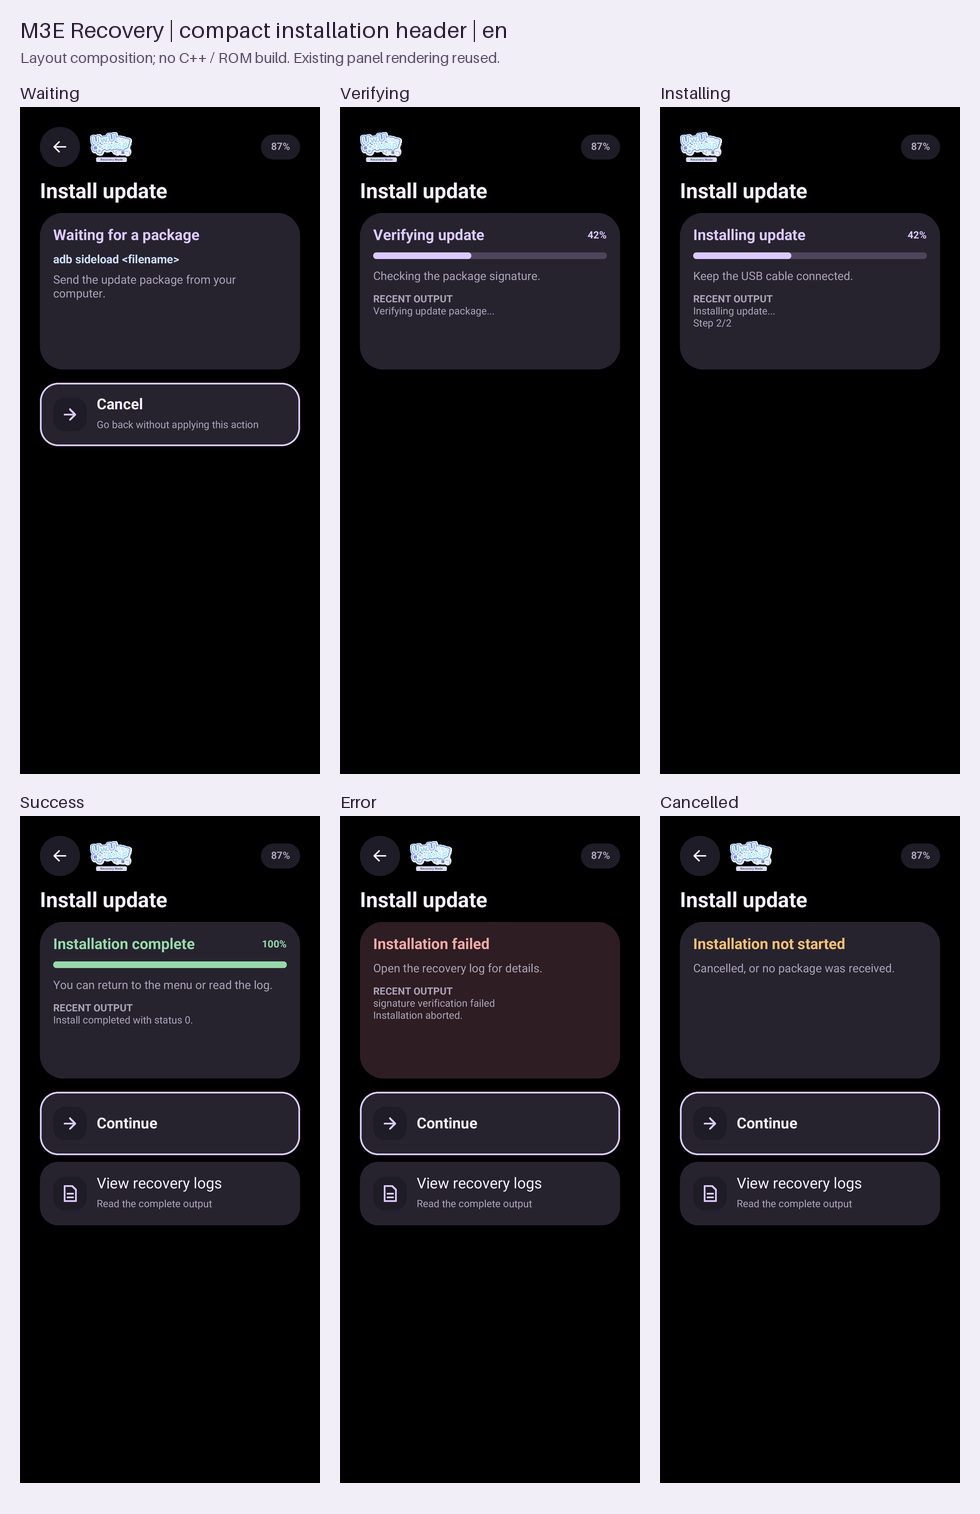
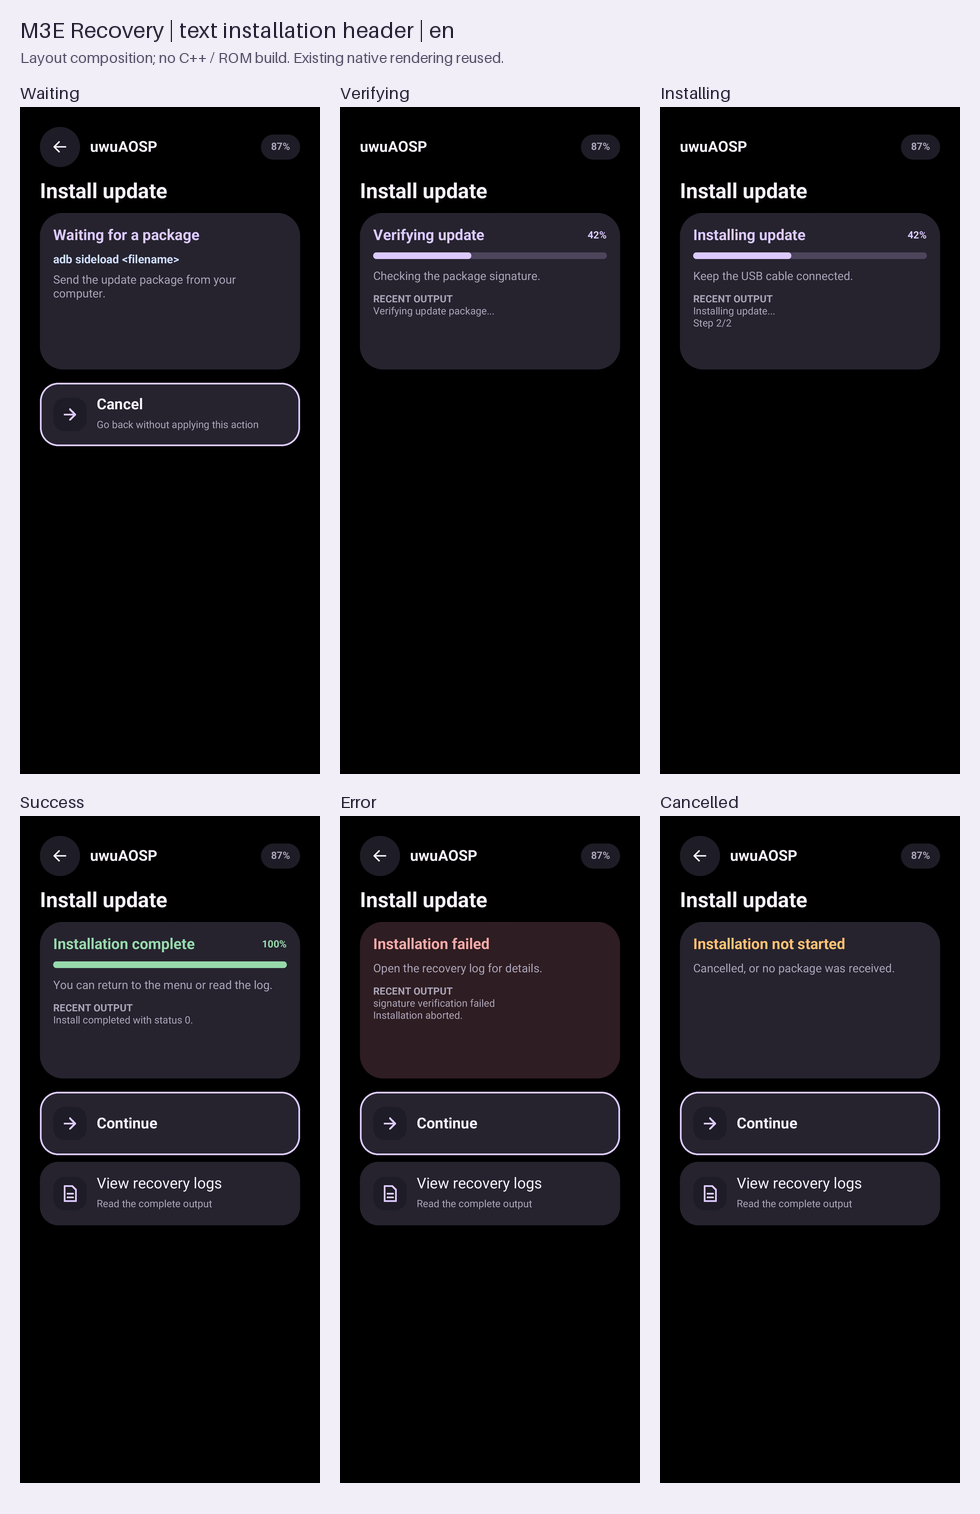
fix(recovery): restore text branding on installation pages

diff --git a/tools/m3e/test_install_ui.cpp b/tools/m3e/test_install_ui.cpp
@@ -58,26 +58,16 @@ constexpr InstallStage stages[]={InstallStage::WAITING,InstallStage::VERIFYING,
     InstallStage::INSTALLING,InstallStage::SUCCESS,InstallStage::ERROR,InstallStage::CANCELLED};
 const char* names[]={"waiting","verifying","installing","success","error","cancelled"};
 
-void Render(const std::string& out,int w,int h,bool zh,int index,bool has_logo,bool pixels=false) {
+void Render(const std::string& out,int w,int h,bool zh,int index,bool pixels=false) {
   SetScaleBasis(w,h);SetLanguage(zh?Language::Chinese:Language::English);
   PixelCanvas c(w,h,pixels);Metrics m(w);auto p=Palette::ForMode(false);p.background={0,0,0};
   auto stage=stages[index];int rows=stage==InstallStage::WAITING?1:index>=3?2:0;
   int top=Dp(w,24),bottom=h-top;
-  int logo_height=has_logo?(pixels?120:Dp(w,36)):0;
-  int logo_width=pixels?169:static_cast<int>(std::lround(logo_height*653.0/464.0));
-  auto logo=InstallHeaderLogo(m,top,bottom,rows,has_logo?logo_width:0,logo_height);
-  int y=DrawInstallHeader(c,m,top,bottom,rows,false,{},p,logo);
+  int y=DrawInstallHeader(c,m,top,bottom,rows,false,{},p);
   auto layout=InstallationLayout(m,y,bottom,rows);
   assert(layout.panel.y>=y && layout.panel.y+layout.panel.h<=bottom);
   assert(layout.panel.y==y); // No illustration or empty illustration gap above the panel.
-  if(logo.w) {
-    auto back=BackBounds(m,top);
-    assert(logo.y>=top && logo.y+logo.h<=top+back.h);
-    assert(logo.x+logo.w<=w-m.inset-Dp(w,90));
-    if(rows) assert(logo.x>=back.x+back.w+Dp(w,12));
-    assert(!c.Has("uwuAOSP")); // Artwork replaces, rather than duplicates, the brand text.
-    c.Blit(out+"/logo.ppm",logo);
-  } else if(!CompactInstallHeader(m,top,bottom,rows)) {
+  if(!CompactInstallHeader(m,top,bottom,rows)) {
     assert(c.Has("uwuAOSP"));
   }
   c.runs.clear();
@@ -111,7 +101,6 @@ void Render(const std::string& out,int w,int h,bool zh,int index,bool has_logo,b
 }
 void CheckProgress() {
   SetScaleBasis(360,800);SetLanguage(Language::English);Metrics m(360);Palette p;
-  assert(InstallHeaderLogo(m,24,776,2,600,426).w==0); // Oversized custom resource fallback.
   for(double value:{-1.0,0.0,0.42,1.0,5.0,std::numeric_limits<double>::quiet_NaN()}) {
     PixelCanvas c(360,800);
     DrawInstallPanel(c,m,{24,24,312,188},InstallStage::INSTALLING,value,true,false,{},p);
@@ -136,8 +125,7 @@ int main(int argc,char** argv) {
 #endif
   for(auto [w,h]:std::vector<std::pair<int,int>>{{1220,2712},{720,1280},{360,640},
         {320,480},{1280,720},{320,240},{1600,2560}})
-    for(bool zh:{false,true})for(int i=0;i<6;++i)for(bool logo:{false,true})
-      Render(out,w,h,zh,i,logo);
-  for(bool zh:{false,true})for(int i=0;i<6;++i)Render(out,1220,2712,zh,i,true,true);
-  std::cout<<"PASS: six stages, two languages, seven screen sizes, missing logo, progress and touch geometry\n";
+    for(bool zh:{false,true})for(int i=0;i<6;++i)Render(out,w,h,zh,i);
+  for(bool zh:{false,true})for(int i=0;i<6;++i)Render(out,1220,2712,zh,i,true);
+  std::cout<<"PASS: six stages, two languages, seven screen sizes, text header, progress and touch geometry\n";
 }

diff --git a/tools/m3e/generate_status_logo.py b/tools/m3e/generate_status_logo.py
@@ -1,5 +1,5 @@
 #!/usr/bin/env python3
-"""Generate minui-compatible status/header logos from the pinned artwork."""
+"""Generate minui-compatible status logos from the pinned user-selected artwork."""
 
 import argparse
 import hashlib
@@ -29,18 +29,14 @@ def generate(out: Path) -> None:
     for density, scale in DENSITIES.items():
         width = round(spec["display_width_dp"] * scale)
         height = round(width * art.height / art.width)
-        header_height = round(spec["header_height_dp"] * scale)
-        header_width = round(header_height * art.width / art.height)
-        for name, size in (("uwu_recovery_status", (width, height)),
-                           ("uwu_recovery_header", (header_width, header_height))):
-            resized = art.resize(size, Image.Resampling.LANCZOS)
-            # minui display surfaces accept RGB; gr_blit does not alpha blend.
-            background = Image.new("RGBA", size, tuple(spec["background"]) + (255,))
-            rgb = Image.alpha_composite(background, resized).convert("RGB")
-            target = out / f"res-{density}" / "images" / (name + ".png")
-            target.parent.mkdir(parents=True, exist_ok=True)
-            rgb.save(target, optimize=True)
-            print(f"{target}: {size[0]}x{size[1]} RGB")
+        resized = art.resize((width, height), Image.Resampling.LANCZOS)
+        # minui display surfaces accept RGB, not RGBA; gr_blit does not alpha blend.
+        background = Image.new("RGBA", resized.size, tuple(spec["background"]) + (255,))
+        rgb = Image.alpha_composite(background, resized).convert("RGB")
+        target = out / f"res-{density}" / "images" / "uwu_recovery_status.png"
+        target.parent.mkdir(parents=True, exist_ok=True)
+        rgb.save(target, optimize=True)
+        print(f"{target}: {width}x{height} RGB")
 
 
 if __name__ == "__main__":

diff --git a/recovery_ui/include/recovery_ui/m3e_install.h b/recovery_ui/include/recovery_ui/m3e_install.h
@@ -13,22 +13,11 @@ inline int InstallButtonSpace(const Metrics& m,int rows) {
 inline bool CompactInstallHeader(const Metrics& m,int top,int bottom,int menu_rows) {
   return bottom-HeaderBottom(m,top,false)-InstallButtonSpace(m,menu_rows)<Dp(m.width,188);
 }
-inline Rect InstallHeaderLogo(const Metrics& m,int top,int bottom,int menu_rows,
-                              int logo_width,int logo_height) {
-  auto back=BackBounds(m,top);
-  int x=m.inset+(menu_rows>0?back.w+Dp(m.width,12):0);
-  // Keep the brand inside the app bar, clear of the battery and back hit target.
-  int available=m.width-m.inset-Dp(m.width,90)-x;
-  if(CompactInstallHeader(m,top,bottom,menu_rows) || logo_width<=0 || logo_height<=0 ||
-     logo_width>available || logo_height>back.h) return {0,0,0,0};
-  return {x,top+(back.h-logo_height)/2,logo_width,logo_height};
-}
 inline int DrawInstallHeader(Canvas& c,const Metrics& m,int top,int bottom,int menu_rows,
                              bool back_selected,const std::vector<std::string>& details,
-                             const Palette& p,Rect logo={0,0,0,0}) {
+                             const Palette& p) {
   if(!CompactInstallHeader(m,top,bottom,menu_rows)) {
-    return DrawHeader(c,m,top,menu_rows>0,back_selected,false,0,0,details,p,"Install update",false,
-                      logo.w==0);
+    return DrawHeader(c,m,top,menu_rows>0,back_selected,false,0,0,details,p,"Install update",false);
   }
   // Keep both result actions reachable on landscape/compact displays. The back hit area
   // stays identical to the regular header used by ScreenRecoveryUI::SelectMenu.

diff --git a/recovery_ui/screen_ui.cpp b/recovery_ui/screen_ui.cpp
@@ -1201,7 +1201,6 @@ bool ScreenRecoveryUI::Init(const std::string& locale) {
   recovery_m3e::SetLanguage(recovery_m3e::LanguageForLocale(locale));
 
   status_logo_ = LoadBitmap("uwu_recovery_status");
-  install_header_logo_ = LoadBitmap("uwu_recovery_header");
   if (!status_logo_) {
     // Preserve the upstream graphics when a device supplies its own resource set.
     error_icon_ = LoadBitmap("icon_error");
@@ -1362,14 +1361,9 @@ void ScreenRecoveryUI::DrawInstallPageLocked() {
   int top = std::max(margin_height_, recovery_m3e::Dp(ScreenWidth(), 24));
   int bottom = ScreenHeight() - top;
   int rows = menu_ ? std::min<size_t>(2, menu_->ItemsCount()) : 0;
-  auto logo = recovery_m3e::InstallHeaderLogo(m, top, bottom, rows,
-      gr_get_width(install_header_logo_.get()), gr_get_height(install_header_logo_.get()));
   int y = recovery_m3e::DrawInstallHeader(canvas, m, top, bottom, rows,
-      menu_ && menu_->selection() == -1, title_lines_, palette, logo);
+      menu_ && menu_->selection() == -1, title_lines_, palette);
   auto layout = recovery_m3e::InstallationLayout(m, y, bottom, rows);
-  if (logo.w > 0) {
-    DrawSurface(install_header_logo_.get(), 0, 0, logo.w, logo.h, logo.x, logo.y);
-  }
   double fraction = progressScopeStart + progress * progressScopeSize;
   recovery_m3e::DrawInstallPanel(canvas, m, layout.panel, m3e_install_stage_, fraction,
       progressBarType == DETERMINATE && progressScopeSize > 0, m3e_security_update_,

diff --git a/recovery_ui/include/recovery_ui/m3e.h b/recovery_ui/include/recovery_ui/m3e.h
@@ -266,7 +266,7 @@ inline void Chip(Canvas& c,const Metrics& m,int x,int y,const std::string& label
 }
 inline int DrawHeader(Canvas& c,const Metrics& m,int top,bool back,bool back_selected,bool fastboot,
                       int,int,const std::vector<std::string>& details,const Palette& p,
-                      const std::string& page="Recovery",bool dashboard=false,bool draw_brand=true) {
+                      const std::string& page="Recovery",bool dashboard=false) {
   auto b=BackBounds(m,top);
   int brand_x=m.inset;
   if(back) {
@@ -274,7 +274,7 @@ inline int DrawHeader(Canvas& c,const Metrics& m,int top,bool back,bool back_sel
     DrawIcon(c,Inset(b,Dp(m.width,14)),Icon::Back,p.text);
     brand_x+=b.w+Dp(m.width,12);
   }
-  if(draw_brand) c.Text(brand_x,top+Dp(m.width,13),"uwuAOSP",Font::Menu,p.text,true);
+  c.Text(brand_x,top+Dp(m.width,13),"uwuAOSP",Font::Menu,p.text,true);
   int y=top+b.h+Dp(m.width,14);
   Font title=dashboard?Font::Title:Font::Heading;
   if(!fastboot && page=="Recovery") {

diff --git a/tools/m3e/test_install_ui.py b/tools/m3e/test_install_ui.py
@@ -127,8 +127,6 @@ def run(cxx, out, ndk_clang=None):
     with tempfile.TemporaryDirectory(prefix='m3e-install-') as temp:
         build = Path(temp)
         (build / 'install_routing.inc').write_text(routing_test(), encoding='utf-8')
-        with Image.open(ROOT / 'res-xxhdpi/images/uwu_recovery_header.png') as logo:
-            logo.save(build / 'logo.ppm')
         exe = build / ('test.exe' if os.name == 'nt' else 'test')
         subprocess.run([cxx, '-std=c++17', '-O1', '-Wall', '-Wextra', '-Werror',
                         '-DM3E_INSTALL_ROUTING_TEST', '-I' + str(ROOT / 'recovery_ui/include'),

diff --git a/recovery_ui/include/recovery_ui/screen_ui.h b/recovery_ui/include/recovery_ui/screen_ui.h
@@ -529,7 +529,6 @@ class ScreenRecoveryUI : public RecoveryUI, public DrawInterface {
   // intro_frames_ / loop_frames_ (indexed by current_frame_) or error_icon_.
   Icon current_icon_;
   std::unique_ptr<GRSurface> status_logo_;
-  std::unique_ptr<GRSurface> install_header_logo_;
   std::unique_ptr<GRSurface> error_icon_;
   std::vector<std::unique_ptr<GRSurface>> intro_frames_;
   std::vector<std::unique_ptr<GRSurface>> loop_frames_;

diff --git a/README_M3E.md b/README_M3E.md
@@ -31,7 +31,7 @@ OTA 安装、签名校验、擦除确认等逻辑沿用上游实现。
 成功、失败和未收到包分别使用绿色、红色和橙色状态，结果页可继续返回菜单或查看完整恢复日志。
 安装页面支持简体中文 / English；日志原文保留。
 
-安装页 Logo 缩小后放在顶部 `uwuAOSP` 品牌位置，和返回键、电量处于同一栏。
+安装页顶部使用 `uwuAOSP` 文字，和返回键、电量处于同一栏。
 安装标题下方直接显示状态卡片，不再为大插画预留空间。
 
 ![安装页头布局预览（合成示意，非手机截图）](tools/m3e/preview/install-header-flow-zh.png)
@@ -47,7 +47,7 @@ OTA 安装、签名校验、擦除确认等逻辑沿用上游实现。
 菜单安装和 `adb reboot sideload` 均可显示结果；`sideload-auto-reboot` 保持上游自动重启语义。
 文件安装复用同一校验/安装页面，能否读取内部存储和支持何种 ZIP 仍由现有挂载、解密及安装后端决定。
 小屏及横屏空间不足时使用紧凑文字页头，优先保证状态文案和按钮可见。
-缺少页头 Logo 或自定义图片超出栏位时回退到品牌文字，不裁切图片或挤占电量区域。
+安装页不加载品牌图片，顶部和状态卡片之间没有插画占位。
 
 页面由 `recovery_ui/include/recovery_ui/m3e_install.h` 绘制，阶段接口在 `install_status.h`；
 `install/adb_install.cpp`、`install/install.cpp` 和 `recovery.cpp` 负责更新阶段与展示结果。
@@ -61,7 +61,7 @@ python3 tools/m3e/test_install_ui.py --out /tmp/m3e-install-preview
 ```
 
 测试直接使用共享原生绘制代码，并提取实际页面路由、阶段更新和结果菜单方法进行主机检查，
-覆盖六种状态、两种语言、七种屏幕尺寸、缺失插画、进度边界、按钮区域、确认菜单优先级和查看日志返回。
+覆盖六种状态、两种语言、七种屏幕尺寸、文字页头、进度边界、按钮区域、确认菜单优先级和查看日志返回。
 预览进度、日志与电量是测试样例。
 
 ## 状态页图标
@@ -72,8 +72,7 @@ python3 tools/m3e/test_install_ui.py --out /tmp/m3e-install-preview
 ![状态页预览（主机资源渲染，非手机截图）](tools/m3e/preview/status-preview.png)
 
 原图、来源与 SHA-256 保存在 `tools/m3e/assets/`。生成器仅去除外围透明留白、
-按原比例生成 200dp 宽的旧状态页资源和 40dp 高的安装页头资源（均有五档密度），
-并合成到状态页原有黑色背景；minui 的
+按原比例生成 200dp 宽的五档旧状态页资源，并合成到状态页原有黑色背景；minui 的
 display surface 不接受 RGBA，因此提交的显示资源使用 8-bit RGB PNG。
 缺少新图标的自定义资源集仍回退到上游动画和错误图标。
 
